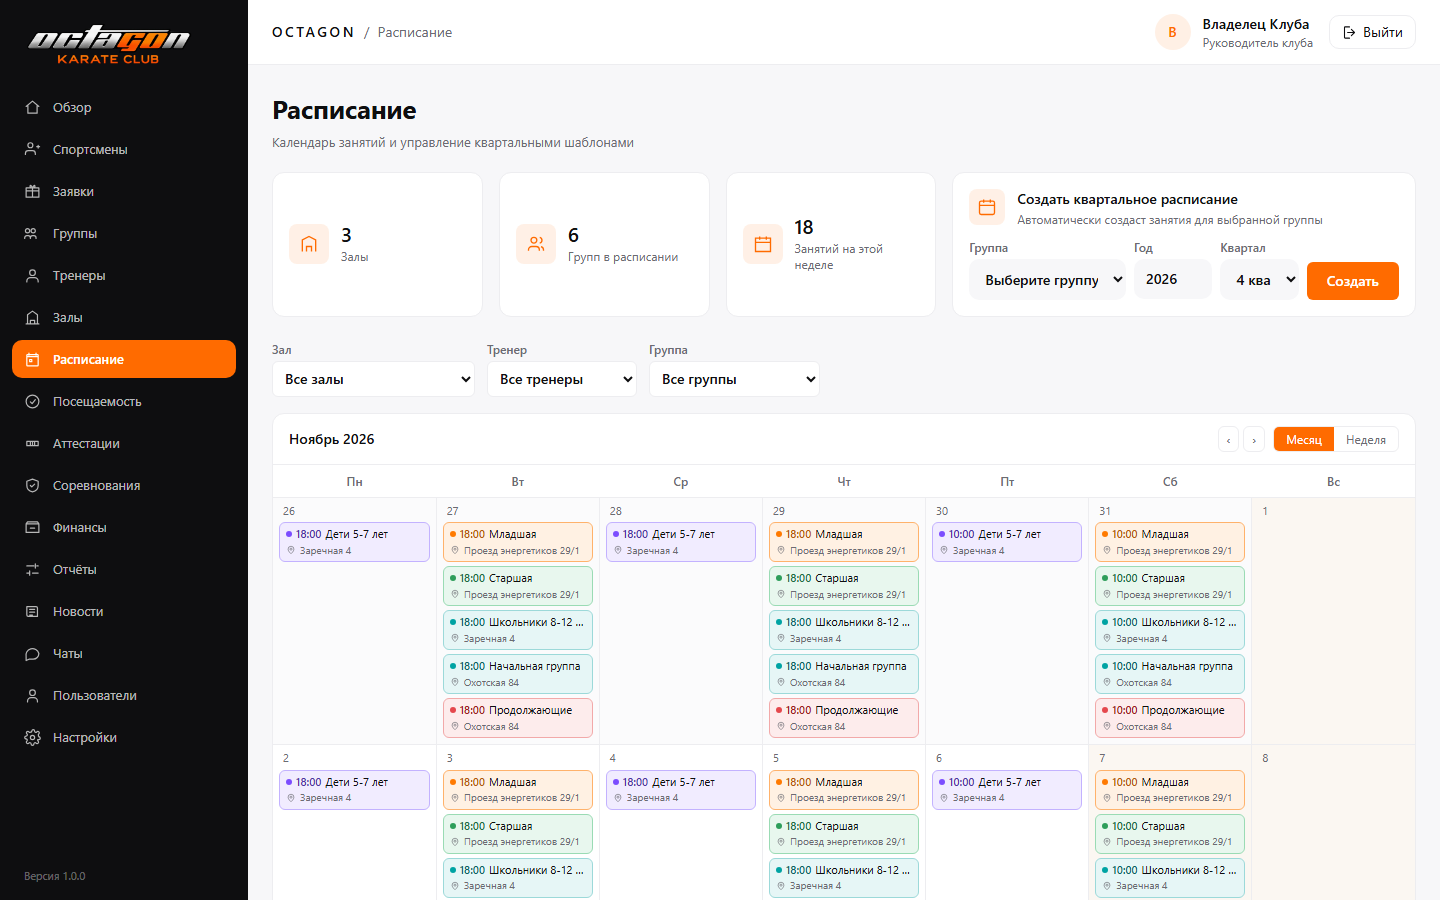
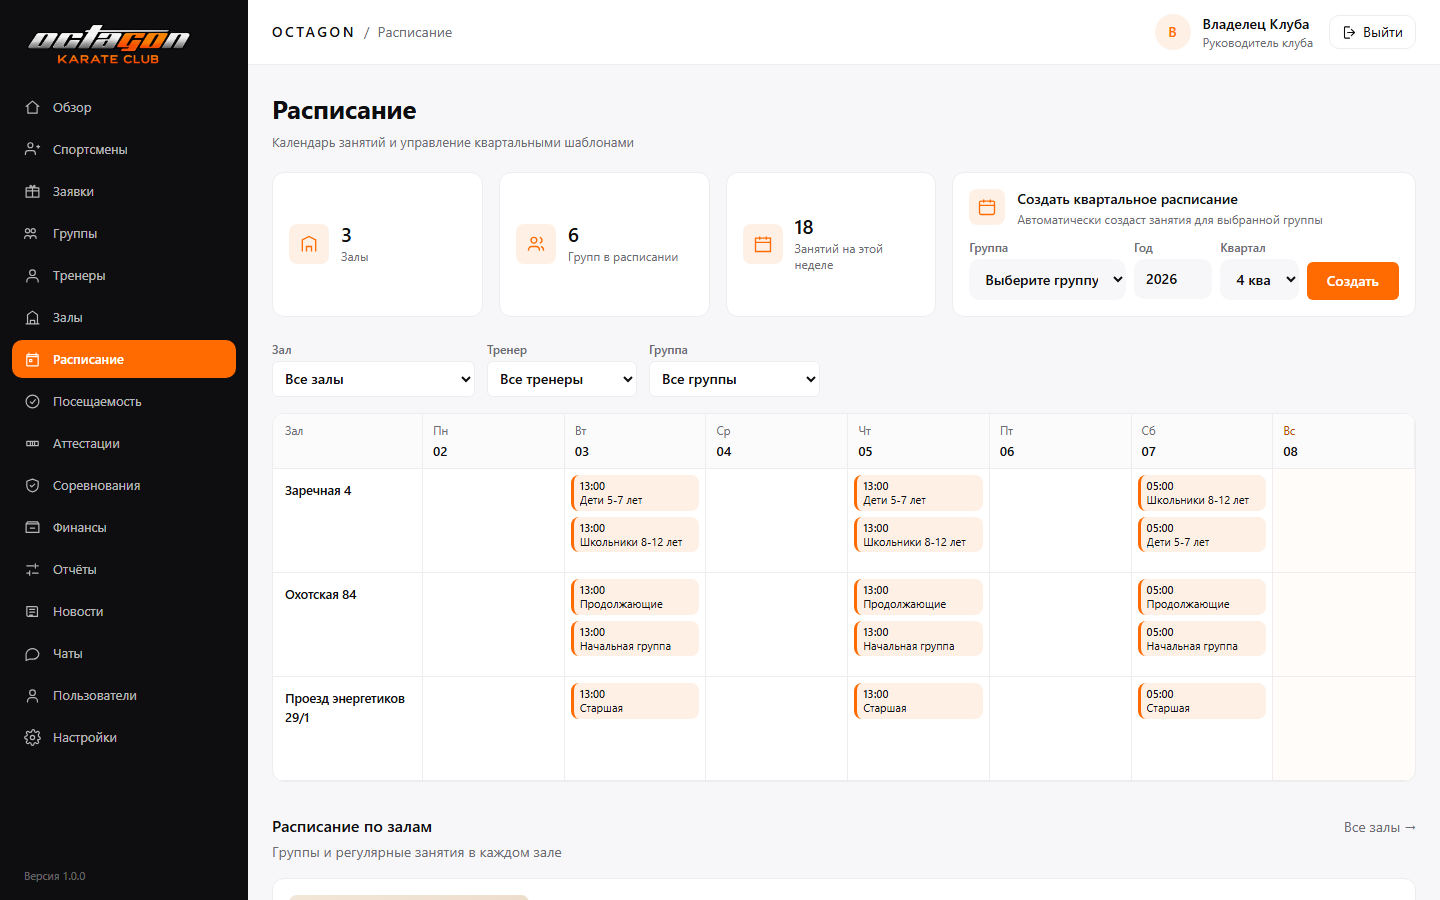
fix(admin): время занятия в поясе клуба (#133)

diff --git a/apps/admin/src/components/schedule-week.tsx b/apps/admin/src/components/schedule-week.tsx
@@ -34,7 +34,13 @@ function dayKey(iso: string): string {
 }
 
 function time(iso: string): string {
-  return iso.slice(11, 16);
+  // Время клуба, а не UTC: иначе вечерние занятия уезжают на утро.
+  return new Intl.DateTimeFormat('ru-RU', {
+    timeZone: 'Asia/Novosibirsk',
+    hour: '2-digit',
+    minute: '2-digit',
+    hour12: false,
+  }).format(new Date(iso));
 }
 
 function addDays(date: Date, days: number): Date {
